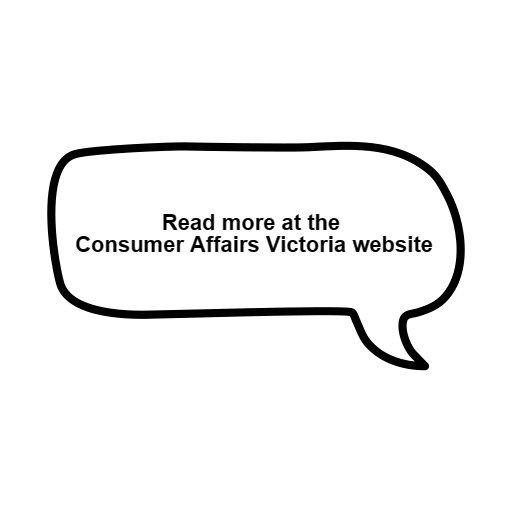
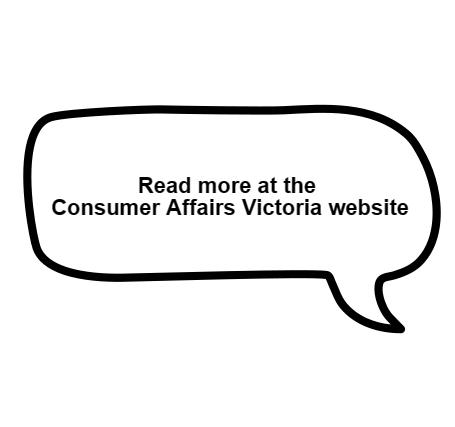
refine

Changed region(s): [[0.0308, 0.2436, 0.9846, 0.7916]]

diff --git a/myrentalcompass/pages/rights.js b/myrentalcompass/pages/rights.js
@@ -79,17 +79,17 @@ export default function Rights() {
         <meta name="description" content="What you need to do." />
       </Head>
 
-      <main className="font-inter flex flex-col min-h-screen text-black justify-center">
+      <main className="font-inter flex flex-col min-h-screen text-black justify-start w-full h-full">
         <Navbar activePage="What you need to know" className="z-10" />
 
-        <div className="relative h-3/5 w-full">
+        <div className="relative flex flex-col w-">
           <img
             src="/businesswoman.jpeg"
             alt="businesswoman"
             className="absolute inset-0 object-cover object-center w-full h-full filter brightness-60 z-0"
           />
           <div className="relative flex flex-col justify-center h-full text-center ">
-            <div className="flex flex-col justify-center items-center my-40 text-gray-100/90">
+            <div className="flex flex-col justify-center items-center space-y-6 my-40 text-BackgroundWhite">
               <h2 className=" text-5xl font-bold max-w-5xl">
               As a tenant, you have the right to live in a 
               safe, secure and quiet environment 
@@ -98,7 +98,7 @@ export default function Rights() {
             </div>
           </div>
         </div>
-        <div className=" flex flex-col bg-white items-center px-8">
+        <div className=" flex flex-col bg-white items-center px-8 w-full h-full">
           <div className="flex justify-between items-center">
             <div className="flex flex-col items-center justify-between text-HeadingTextGray font-bold text-4xl text-center max-w-md mr-48">
               <h2>Understand your rights and responsibilities</h2>
@@ -577,8 +577,8 @@ export default function Rights() {
               <Image
                 src="/chat_bubble_rights2.png"
                 alt="chatb2"
-                width={300}
-                height={300}
+                width={270}
+                height={270}
               />
               <div className="flex justify-center items-center">
                 <Image
@@ -592,17 +592,17 @@ export default function Rights() {
                 /resources-and-guides-for-renters/renters-guide" className="text-ButtonHoverYellow text-base font-semibold hover:underline lg:text-xl md:text-base">Consumer Affairs Victoria</a>
               </div>
             </div>
-            <div className="mr-80">
+            <div className="mr-48 mt-24">
               <Image
                 src="/woman.gif"
                 alt="woman"
-                width={160}
-                height={160}
+                width={140}
+                height={140}
               />
             </div>
             <div>
               <Link href="/">
-                <button className="text-xl md:text-2xl lg:text-2xl font-bold call-action-button">
+                <button className="text-xl md:text-2xl lg:text-2xl font-bold call-action-button bg-FooterButtonYellow">
                   Return Home
                 </button>
               </Link>
